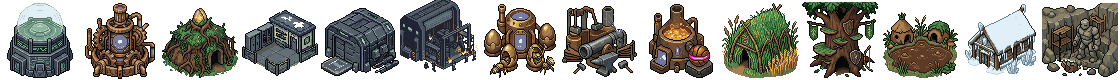
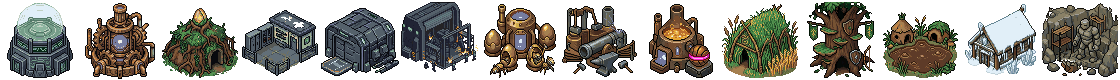
Gebäude ins Gelände eingearbeitet (Kontaktschatten, Fraktions-Saum, abgerundete Terra-Former-Fabriken und Schwerwerk), Erdwall je Fraktion, Elite-Effekte je Protokoll, Schlammschleuder gespiegelt
Claude-Session: https://claude.ai/code/session_013tiAU3eD9TdNUoRZKTs8az

diff --git a/src/render/hd2d/renderer3d.ts b/src/render/hd2d/renderer3d.ts
@@ -23,6 +23,7 @@ import type { ViewState } from '../../ui/view';
 import { Renderer } from '../renderer';
 import { BUILDINGS_SHEET, TILESETS, UNIT_SHEETS } from './assets';
 import { badgeCanvas } from './eliteBadge';
+import { ELITE_FX, eliteFxCanvas } from './eliteFx';
 import { AWAY_HUE, MIRROR_COLORS, attackTime, facing, projectileShown, returnTimeline } from './anim';
 import type { ZoomLevel } from './anim';
 import { PROJECTILES, UNIT_SPRITES, figureGlobal, spriteFor } from './sprites';
@@ -47,7 +48,10 @@ const HEIGHT = [0, 0, -0.05, 0.02, 1.1, -0.75, 0.04, 0.65, 0];
  * abgeschrägt, wo kein Nachbar-Wall liegt – zusammenhängende Wälle bilden eine durchgehende Linie.
  * Streifen walls.webp (je 32 px): Lehm 0/1/8/9, Sandsäcke 2/3/10/11, Palisade 4/5/12/13, Feldstein 6/7/14/15.
  */
-const WALL_TEX = [2, 3, 10, 11] as const; // Nutzer 15.11.: Variante B, Sandsäcke (Seite 1/2, Deckel 1/2)
+/** Nutzer 15.11.: Sandsäcke als Grundform; 16.11.: je Fraktion eigene Optik (Seite 1/2, Deckel 1/2). Kartenwälle ohne Besitzer: Sandsäcke. */
+const WALL_TEX: Record<FactionId | 'none', readonly [number, number, number, number]> = {
+  none: [2, 3, 10, 11], technoclan: [2, 3, 10, 11], myriaden: [0, 1, 8, 9], terraformer: [4, 5, 12, 13],
+};
 const WALL_H = 0.62;
 HEIGHT[7] = 0; // Boden unter dem Wall bleibt flach, die Höhe kommt vom Wandkörper
 export const FACTION_COLOR: Record<FactionId, string> = { technoclan: '#7fe0ff', myriaden: '#ff6ad5', terraformer: '#9be37b' };
@@ -88,6 +92,8 @@ interface Squad {
   wasMoving: boolean;
   tick: number;
   badgeKey: string;
+  /** Elite-Effekt je Figur (dominantes Protokoll, eliteFx.ts). */
+  fx: THREE.Sprite[];
 }
 
 interface Shot {
@@ -676,7 +682,7 @@ export class Hd2dRenderer {
           overlayFade(this.ground.geometry, cols * 4 + 1, rows * 4 + 1);
         }
         this.buildTrees(world, at);
-        this.buildWalls(at);
+        this.buildWalls(world, at);
         return;
       }
     }
@@ -719,7 +725,7 @@ export class Hd2dRenderer {
     this.overlayMesh.renderOrder = 1;
     this.scene.add(this.overlayMesh);
     this.buildTrees(world, at);
-    this.buildWalls(at);
+    this.buildWalls(world, at);
     this.buildRim(x0, cols, rows);
   }
 
@@ -743,7 +749,7 @@ export class Hd2dRenderer {
   }
 
   /** Wandkörper auf allen Erdwall-Kacheln im Ausschnitt (siehe WALL_TEX). */
-  private buildWalls(at: (x: number, y: number) => number): void {
+  private buildWalls(world: World, at: (x: number, y: number) => number): void {
     if (this.wallGroup) {
       this.scene.remove(this.wallGroup);
       this.wallGroup.traverse((o) => { if (o instanceof THREE.Mesh) o.geometry.dispose(); });
@@ -751,7 +757,13 @@ export class Hd2dRenderer {
     }
     const img = this.image(TILESETS.walls);
     if (!this.ready(img)) return;
-    const [s1, s2, t1, t2] = WALL_TEX;
+    const owner = new Map<number, FactionId>();
+    for (const e of world.entities) {
+      if (e.kind !== 'wall' || !e.alive || !e.rect) continue;
+      const f = world.players[e.owner]?.faction.id;
+      if (!f) continue;
+      for (let y = e.rect.y; y < e.rect.y + e.rect.h; y++) for (let x = e.rect.x; x < e.rect.x + e.rect.w; x++) owner.set(y * 100000 + x, f);
+    }
     const group = new THREE.Group();
     const IN = 0.2; // Schräge oben an offenen Seiten
     for (let y = 0; y < this.rows; y++) {
@@ -770,6 +782,7 @@ export class Hd2dRenderer {
           if (pz < 0 && !n) pa.setZ(i, pz + IN);
         }
         geo.computeVertexNormals();
+        const [s1, s2, t1, t2] = WALL_TEX[owner.get(y * 100000 + x) ?? 'none'];
         const hv = hash(x * 5 + 1, y * 3 + 2);
         const side = this.wallMat(img, hv < 0.5 ? s1 : s2);
         const top = this.wallMat(img, hash(x + 9, y + 4) < 0.5 ? t1 : t2);
@@ -1152,7 +1165,68 @@ export class Hd2dRenderer {
     s.scale.set(e.owner === 1 ? -size : size, size, 1);
     s.center.set(0.5, 0.12);
     s.position.set(cx, 0.02, cy + r.h * 0.25);
-    return s;
+    // Ins Gelände einarbeiten (Nutzer 16.11.): weicher Kontaktschatten und ein Saum aus Kleinkram am Fuß, der die
+    // gerade Unterkante des Bilds verdeckt – je Fraktion eigene Teile.
+    const group = new THREE.Group();
+    group.add(this.contactShadow(cx + r.w * 0.08, cy + r.h * 0.12, r.w * 1.25, r.h * 0.95));
+    group.add(s);
+    for (const d of this.buildingSkirt(e, faction)) group.add(d);
+    return group;
+  }
+
+  private shadowTex: THREE.Texture | null = null;
+
+  /** Weicher, elliptischer Schatten flach auf dem Boden (Licht von oben links). */
+  private contactShadow(x: number, y: number, w: number, h: number): THREE.Mesh {
+    if (!this.shadowTex) {
+      const c = document.createElement('canvas');
+      c.width = c.height = 64;
+      const g = c.getContext('2d')!;
+      const grd = g.createRadialGradient(32, 32, 4, 32, 32, 32);
+      grd.addColorStop(0, 'rgba(10,8,14,0.55)');
+      grd.addColorStop(0.6, 'rgba(10,8,14,0.35)');
+      grd.addColorStop(1, 'rgba(10,8,14,0)');
+      g.fillStyle = grd;
+      g.fillRect(0, 0, 64, 64);
+      this.shadowTex = new THREE.CanvasTexture(c);
+    }
+    const m = new THREE.Mesh(new THREE.PlaneGeometry(w, h), new THREE.MeshBasicMaterial({ map: this.shadowTex, transparent: true, depthWrite: false }));
+    m.rotation.x = -Math.PI / 2;
+    m.position.set(x, 0.03, y);
+    m.renderOrder = 1;
+    return m;
+  }
+
+  /** Saum am Gebäudefuß: Deko-Teile aus dem Atlas (tiles2, Zeile ab 96), vorn dichter, seitlich lockerer. */
+  private buildingSkirt(e: Entity, faction: FactionId): THREE.Sprite[] {
+    const SKIRT: Record<FactionId, number[]> = {
+      technoclan: [21, 22, 25, 39, 20, 63, 62, 22],
+      myriaden: [19, 29, 50, 21, 49, 20, 52, 19],
+      terraformer: [1, 0, 8, 6, 31, 23, 15, 9, 1],
+    };
+    const r = e.rect!;
+    const list = SKIRT[faction];
+    const out: THREE.Sprite[] = [];
+    const n = Math.round(r.w * 3.5);
+    for (let k = 0; k < n; k++) {
+      const h1 = hash(e.id * 7 + k, 31);
+      const h2 = hash(e.id * 3 + k, 57);
+      const h3 = hash(e.id + k * 11, 91);
+      const i = list[Math.floor(h1 * list.length)]!;
+      const tex = this.frame(TILESETS.tiles2, (i % 32) * 32, 96 + Math.floor(i / 32) * 32, 32);
+      if (!tex) continue;
+      const sp = new THREE.Sprite(new THREE.SpriteMaterial({ map: tex, alphaTest: 0.5 }));
+      // Vorderkante (Unterkante des Bilds) und Ecken: x über die Breite, y knapp vor der Bildkante
+      const front = k < n * 0.7;
+      const x = front ? r.x + 0.05 + (k / (n * 0.7)) * (r.w - 0.1) + (h2 - 0.5) * 0.3 : (h2 < 0.5 ? r.x - 0.05 : r.x + r.w + 0.05) + (h3 - 0.5) * 0.2;
+      const y = front ? r.y + r.h * (0.78 + h3 * 0.18) : r.y + r.h * (0.35 + h3 * 0.4);
+      const sc = 0.38 + h3 * 0.22;
+      sp.scale.set(h2 < 0.5 ? -sc : sc, sc, 1);
+      sp.center.set(0.5, 0.15);
+      sp.position.set(x, 0.02, y);
+      out.push(sp);
+    }
+    return out;
   }
 
   // ------------------------------------------------------------------ Einheiten
@@ -1293,6 +1367,7 @@ export class Hd2dRenderer {
         void sideColor;
         s.visible = vis;
         sh.visible = vis;
+        if (sq.fx[i]) sq.fx[i]!.visible = false;
         if (!vis) continue;
         const o = OFFSETS[i]!;
         // Figuren stehen neben und hinter dem Verbandspunkt, nie davor (Richtung Gegner) – sonst wirkt die Reichweite kürzer.
@@ -1328,6 +1403,8 @@ export class Hd2dRenderer {
           (s.material as THREE.SpriteMaterial).needsUpdate = true;
         }
         s.scale.set(size * dir * (spr.flip ? -1 : 1), size, 1);
+        const proto = e.elite ? e.tech?.eliteFx?.dominant : undefined;
+        if (proto && level !== 'map') this.placeEliteFx(sq, i, s, proto, size, dir, now / world.tps + e.id * 0.37 + i * 0.9);
       }
       // Lebensbalken über dem Verband
       const share = Math.max(0, Math.min(1, e.hp / e.maxHp));
@@ -1407,7 +1484,7 @@ export class Hd2dRenderer {
     badge.renderOrder = 7;
     badge.visible = false;
     this.scene.add(back, hp, icon, badge);
-    return { sprites: [], shadows: [], hp, hpBack: back, salvos: 0, lastShot: [], shots: [], walk: 0, seen: 0, icon, badge, iconKey: '', badgeKey: '', dir: 0, back: 0, accX: 0, backward: false, tick: -1, riseStart: -1, riseUp: false, wasMoving: false };
+    return { sprites: [], shadows: [], hp, hpBack: back, salvos: 0, lastShot: [], shots: [], walk: 0, seen: 0, icon, badge, iconKey: '', badgeKey: '', dir: 0, back: 0, accX: 0, backward: false, tick: -1, riseStart: -1, riseUp: false, wasMoving: false, fx: [] };
   }
 
   private readonly iconTex = new Map<string, THREE.CanvasTexture>();
@@ -1738,6 +1815,43 @@ export class Hd2dRenderer {
     for (const [id, el] of this.edgeMarks) if (!this.attacked.has(id)) { el.remove(); this.edgeMarks.delete(id); }
   }
 
+  private readonly fxTex = new Map<string, THREE.Texture>();
+
+  /** Elite-Effekt an der Figur (eliteFx.ts): Ort nach Blickrichtung, Bewegung über Zeit `t` (s). */
+  private placeEliteFx(sq: Squad, i: number, s: THREE.Sprite, proto: ProtocolId, size: number, dir: number, t: number): void {
+    const look = ELITE_FX[proto];
+    let m = sq.fx[i];
+    if (!m) {
+      m = new THREE.Sprite(new THREE.SpriteMaterial({ transparent: true, depthWrite: false, blending: THREE.AdditiveBlending }));
+      m.renderOrder = 3;
+      this.scene.add(m);
+      sq.fx[i] = m;
+    }
+    let tex = this.fxTex.get(proto);
+    if (!tex) {
+      tex = new THREE.CanvasTexture(eliteFxCanvas(proto, PROTOCOL_COLOR[proto]));
+      tex.magFilter = THREE.NearestFilter;
+      tex.minFilter = THREE.NearestFilter;
+      tex.colorSpace = THREE.SRGBColorSpace;
+      this.fxTex.set(proto, tex);
+    }
+    const mat = m.material as THREE.SpriteMaterial;
+    if (mat.map !== tex) { mat.map = tex; mat.needsUpdate = true; }
+    let [ax, ay] = look.at;
+    let a = look.alpha;
+    let k = look.size * size;
+    mat.rotation = 0;
+    if (look.motion === 'pulse') a *= 0.55 + 0.45 * Math.sin(t * 4);
+    else if (look.motion === 'flicker') { a *= 0.5 + 0.5 * Math.abs(Math.sin(t * 17) * Math.sin(t * 7.3)); k *= 0.85 + 0.3 * Math.abs(Math.sin(t * 11)); }
+    else if (look.motion === 'spin') mat.rotation = t * 1.2;
+    else if (look.motion === 'rise') { const ph = (t * 0.6) % 1; ay += ph * 0.35; a *= Math.sin(ph * Math.PI); }
+    else if (look.motion === 'orbit') { ax += Math.cos(t * 2.4) * 0.3; ay += Math.sin(t * 2.4) * 0.12; }
+    mat.opacity = Math.max(0, a);
+    m.position.set(s.position.x + ax * size * dir, s.position.y + ay * size, s.position.z + (look.motion === 'orbit' && Math.sin(t * 2.4) < 0 ? -0.05 : 0.03));
+    m.scale.set(k, k, 1);
+    m.visible = s.visible;
+  }
+
   private ensureSprites(sq: Squad, n: number): void {
     while (sq.sprites.length < n) {
       const s = new THREE.Sprite(new THREE.SpriteMaterial({ alphaTest: 0.5 }));
@@ -1752,7 +1866,7 @@ export class Hd2dRenderer {
   }
 
   private removeSquad(sq: Squad): void {
-    for (const o of [...sq.sprites, ...sq.shadows, sq.hp, sq.hpBack, sq.icon, sq.badge]) {
+    for (const o of [...sq.sprites, ...sq.shadows, ...sq.fx, sq.hp, sq.hpBack, sq.icon, sq.badge]) {
       this.scene.remove(o);
       ((o as THREE.Mesh).material as THREE.Material).dispose();
     }

diff --git a/src/render/hd2d/eliteFx.ts b/src/render/hd2d/eliteFx.ts
@@ -1,0 +1,92 @@
+import type { ProtocolId } from '../../data/units';
+
+/**
+ * Elite-Effekte (Leitfaden „Protokoll-Aufsätze als Licht/Partikel“, Nutzer 16.11.: „kannst du so machen“): je
+ * dominantem Protokoll ein kleiner, additiver Lichteffekt an der Figur, ohne Generierung. Pixelig gemalt (Nearest),
+ * damit er zum Figurenstil passt; Bewegung kommt über Position, Drehung und Deckkraft im Renderer.
+ */
+export interface EliteFxLook {
+  /** Ort relativ zur Figur (Anteile der Bildgröße): x nach vorn (Blickrichtung), y nach oben ab Fußpunkt. */
+  at: [number, number];
+  /** Größe als Anteil der Figurengröße. */
+  size: number;
+  /** Bewegung: pulse = Deckkraft schwingt, spin = dreht sich, rise = steigt auf und verblasst, flicker = unruhig, orbit = kreist. */
+  motion: 'pulse' | 'spin' | 'rise' | 'flicker' | 'orbit';
+  /** Grund-Deckkraft (0 … 1). */
+  alpha: number;
+}
+
+export const ELITE_FX: Record<ProtocolId, EliteFxLook> = {
+  antiHeavy: { at: [0.28, 0.5], size: 0.22, motion: 'pulse', alpha: 0.9 }, // rotes Zielglühen an der Waffe
+  area: { at: [0.22, 0.48], size: 0.3, motion: 'flicker', alpha: 0.4 }, // Hitzeflimmern
+  mark: { at: [0, 0.03], size: 0.4, motion: 'pulse', alpha: 0.6 }, // Markierungsring am Boden
+  range: { at: [0, 0.98], size: 0.42, motion: 'pulse', alpha: 0.75 }, // Sensorring über dem Kopf
+  pierce: { at: [0.32, 0.52], size: 0.2, motion: 'flicker', alpha: 1 }, // Funken an der Mündung
+  repair: { at: [-0.05, 0.35], size: 0.5, motion: 'rise', alpha: 0.9 }, // aufsteigende Nano-Partikel
+  plating: { at: [0, 0.42], size: 0.75, motion: 'pulse', alpha: 0.25 }, // Schild-Umriss
+  node: { at: [0, 0.6], size: 0.16, motion: 'orbit', alpha: 1 }, // kreisender Funke
+};
+
+/** Effektbild (32×32, Pixelgrafik) in der Protokollfarbe. */
+export function eliteFxCanvas(p: ProtocolId, color: string): HTMLCanvasElement {
+  const c = document.createElement('canvas');
+  c.width = c.height = 32;
+  const g = c.getContext('2d')!;
+  const px = (x: number, y: number, col = color, a = 1): void => {
+    g.globalAlpha = a;
+    g.fillStyle = col;
+    g.fillRect(Math.round(x), Math.round(y), 1, 1);
+    g.globalAlpha = 1;
+  };
+  const disc = (cx: number, cy: number, r: number, a: number, col = color): void => {
+    for (let y = -r; y <= r; y++) for (let x = -r; x <= r; x++) {
+      const d = Math.hypot(x, y) / r;
+      if (d <= 1) px(cx + x, cy + y, col, a * (1 - d * d));
+    }
+  };
+  const ring = (cx: number, cy: number, rx: number, ry: number, dash: number, a: number): void => {
+    const n = Math.ceil(Math.PI * (rx + ry) * 1.2);
+    for (let i = 0; i < n; i++) {
+      if (dash && Math.floor((i / n) * dash * 2) % 2) continue;
+      const t = (i / n) * Math.PI * 2;
+      px(cx + Math.cos(t) * rx, cy + Math.sin(t) * ry, color, a);
+    }
+  };
+  switch (p) {
+    case 'antiHeavy':
+      disc(16, 16, 10, 0.55);
+      disc(16, 16, 4, 1, '#ffffff');
+      break;
+    case 'area':
+      for (let i = 0; i < 26; i++) disc(6 + ((i * 7) % 20), 6 + ((i * 11) % 20), 3, 0.35);
+      break;
+    case 'mark':
+      ring(16, 16, 14, 6, 6, 1);
+      ring(16, 16, 9, 3.5, 0, 0.6);
+      break;
+    case 'range':
+      ring(16, 16, 13, 4, 0, 1);
+      for (const x of [3, 29]) px(x, 16, '#ffffff');
+      break;
+    case 'pierce':
+      for (const [dx, dy] of [[0, -9], [0, 9], [-9, 0], [9, 0], [-6, -6], [6, 6], [6, -6], [-6, 6]] as const)
+        for (let k = 0; k < 5; k++) px(16 + (dx * k) / 5, 16 + (dy * k) / 5, k < 2 ? '#ffffff' : color, 1 - k * 0.15);
+      disc(16, 16, 3, 1, '#ffffff');
+      break;
+    case 'repair':
+      for (const [x, y, s] of [[8, 26, 2], [18, 18, 2], [12, 10, 1], [24, 6, 1], [22, 28, 1], [6, 14, 1]] as const) {
+        disc(x, y, s + 1, 0.6);
+        px(x, y, '#ffffff');
+      }
+      break;
+    case 'plating':
+      ring(16, 16, 14, 15, 0, 0.9);
+      ring(16, 16, 13, 14, 0, 0.35);
+      break;
+    case 'node':
+      disc(16, 16, 9, 0.6);
+      disc(16, 16, 3, 1, '#ffffff');
+      break;
+  }
+  return c;
+}

diff --git a/src/render/hd2d/sprites.ts b/src/render/hd2d/sprites.ts
@@ -63,7 +63,7 @@ export const UNIT_SPRITES: Partial<Record<UnitId, UnitSprite>> = {
   wardForest: { faction: 'terraformer', sheet: 'units/wardForest.webp', cell: 80, frames: { idle: 9, walk: 10, attack: 8 }, scale: 1, fly: 0, attack: { dur: 1.1, hits: [0.44], muzzles: [[0.69, 0.5], [0.69, 0.5]], projectile: 'tf_shot' }, chosen: { idle: 'A', walk: 'B', attack: 'B' } },
   specialForest: { faction: 'terraformer', flip: true, sheet: 'units/specialForest.webp', cell: 80, frames: { idle: 9, walk: 13, attack: 17 }, scale: 1, fly: 0, attack: { dur: 2.6, hits: [0.62], muzzles: [[0.7, 1]], projectile: 'tf_stone' }, chosen: { idle: 'A', walk: 'A', attack: 'A' } },
   wardMud: { faction: 'terraformer', flip: true, sheet: 'units/wardMud.webp', cell: 80, frames: { idle: 9, walk: 13, attack: 17 }, scale: 1, fly: 0, attack: { dur: 2.4, hits: [0.82], muzzles: [[0.5, 0.75]], ret: 0.9406, back: 0.6476, projectile: 'tf_mud' }, chosen: { idle: 'A', walk: 'A', attack: 'C' } },
-  specialMud: { faction: 'terraformer', sheet: 'units/specialMud.webp', cell: 80, frames: { idle: 9, walk: 13, attack: 17 }, scale: 1, fly: 0, attack: { dur: 2.6, hits: [0.75], muzzles: [[0.5, 1]], ret: 0.8818, back: 0.5888, projectile: 'tf_mud' }, chosen: { idle: 'A', walk: 'A', attack: 'C' } },
+  specialMud: { faction: 'terraformer', flip: true, sheet: 'units/specialMud.webp', cell: 80, frames: { idle: 9, walk: 13, attack: 17 }, scale: 1, fly: 0, attack: { dur: 2.6, hits: [0.75], muzzles: [[0.5, 1]], ret: 0.8818, back: 0.5888, projectile: 'tf_mud' }, chosen: { idle: 'A', walk: 'A', attack: 'C' } },
   wardSnow: { faction: 'terraformer', sheet: 'units/wardSnow.webp', cell: 80, frames: { idle: 9, walk: 13, attack: 17 }, scale: 1, fly: 0, attack: { dur: 2.2, hits: [0.84], muzzles: [[0.6, 0.6]], projectile: 'tf_ice' }, chosen: { idle: 'A', walk: 'A', attack: 'B' } },
   // 15.11.: Angriff neu (PixelLab v3 aus dem Standbild, endet im Stand)
   specialSnow: { faction: 'terraformer', sheet: 'units/specialSnow.webp', cell: 80, frames: { idle: 9, walk: 13, attack: 9 }, scale: 1, fly: 0, attack: { dur: 1.6, hits: [0.61], muzzles: [[0.6, 1.3]], projectile: 'tf_snow' }, chosen: { idle: 'A', walk: 'A', attack: 'A' } },
